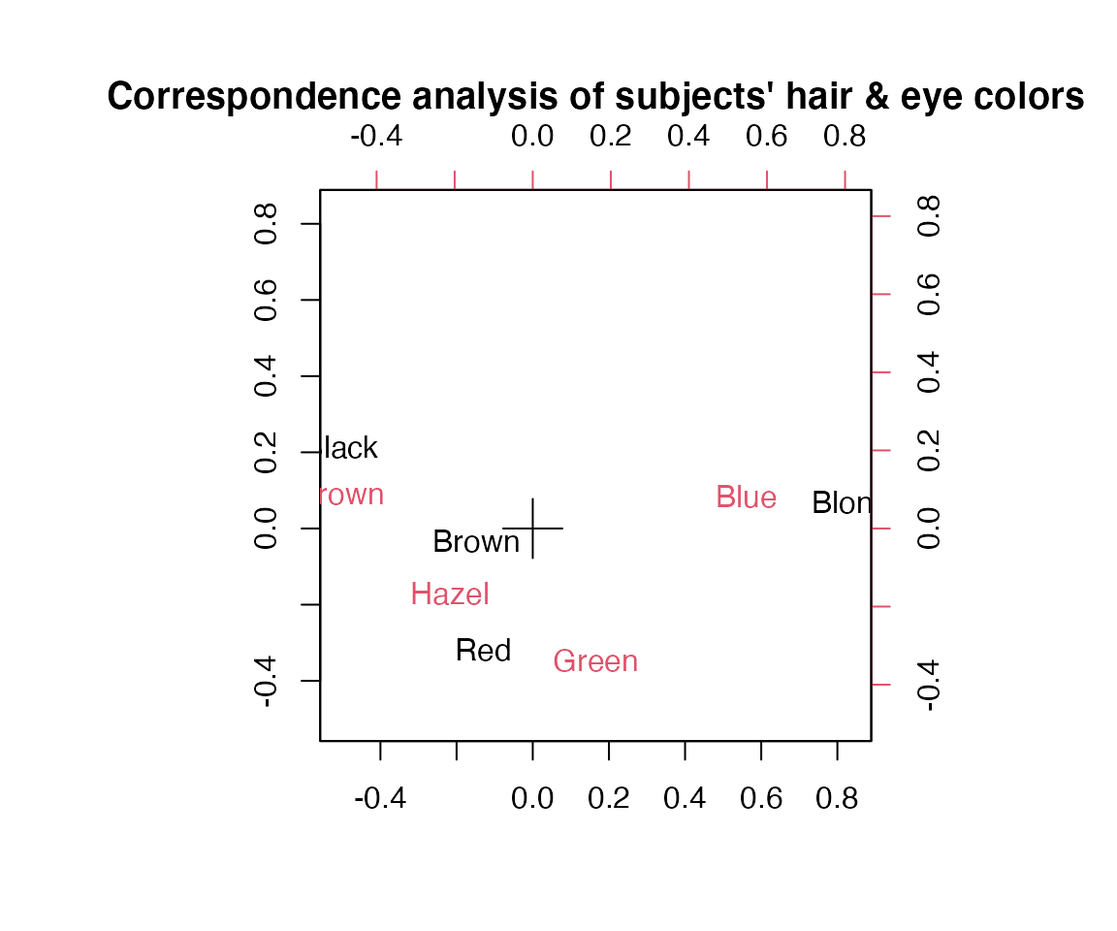
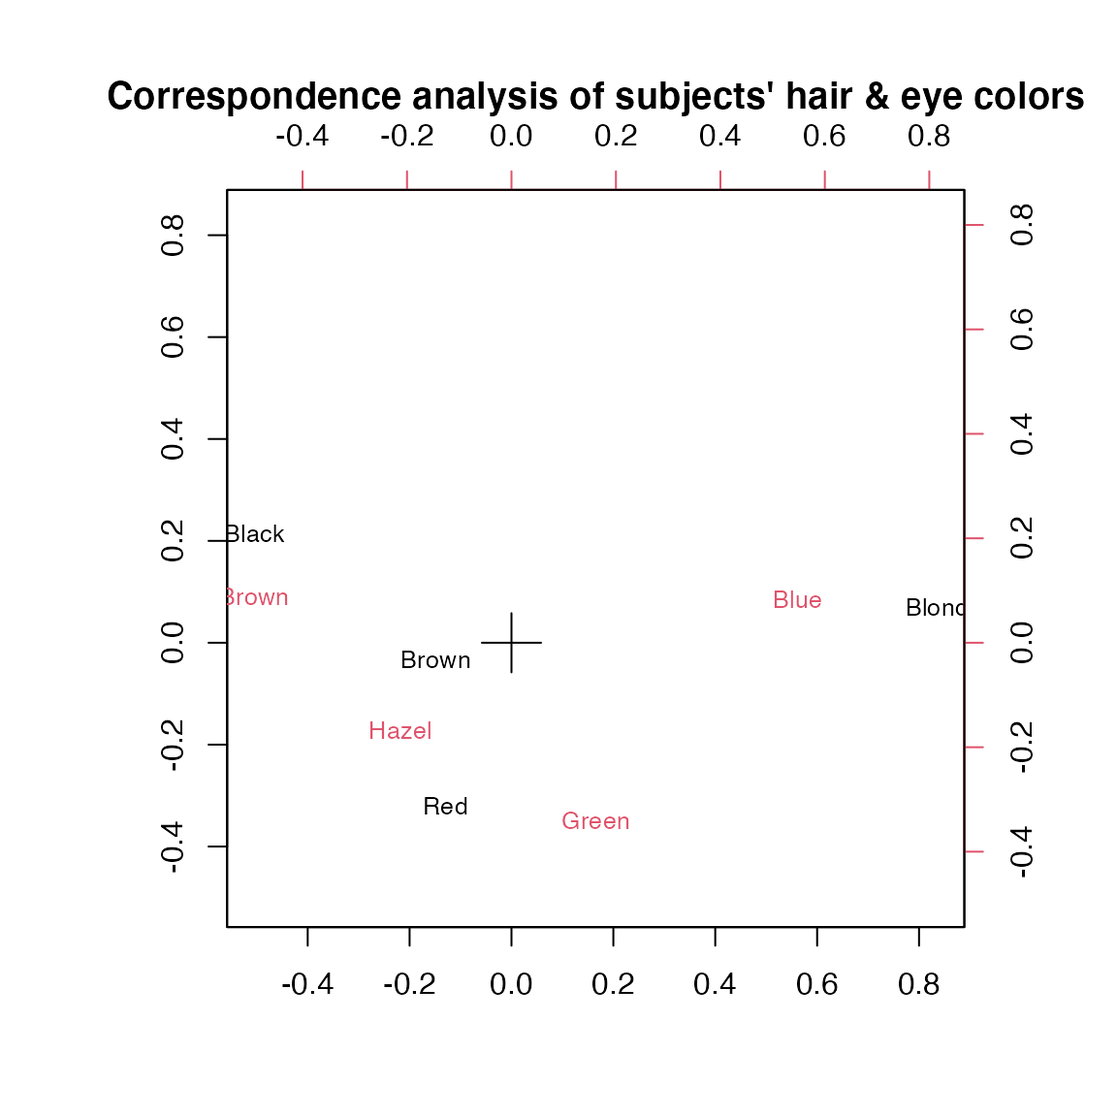
tweak base biplot

diff --git a/docs/articles/ordr.html b/docs/articles/ordr.html
@@ -272,7 +272,7 @@ for the ‘correspondence’ class, also provided by
 <strong>MASS</strong>:</p>
 <div class="sourceCode" id="cb5"><pre class="downlit sourceCode r">
 <code class="sourceCode R"><span><span class="fu"><a href="https://rdrr.io/r/stats/biplot.html" class="external-link">biplot</a></span><span class="op">(</span></span>
-<span>  <span class="va">haireye_ca</span>, type <span class="op">=</span> <span class="st">"symmetric"</span>,</span>
+<span>  <span class="va">haireye_ca</span>, type <span class="op">=</span> <span class="st">"symmetric"</span>, cex <span class="op">=</span> <span class="fl">.8</span>,</span>
 <span>  main <span class="op">=</span> <span class="st">"Correspondence analysis of subjects' hair &amp; eye colors"</span></span>
 <span><span class="op">)</span></span></code></pre></div>
 <p><img src="ordr_files/figure-html/unnamed-chunk-4-1.png" width="576" style="display: block; margin: auto;"></p>
@@ -542,67 +542,66 @@ plotting elements commonly used in biplots, the other being
 <span><span class="co">#&gt; </span></span>
 <span><span class="co">#&gt; <span style="color: #00BBBB; font-weight: bold;">─ Packages ───────────────────────────────────────────────────────────────────</span></span></span>
 <span><span class="co">#&gt;  <span style="color: #555555; font-style: italic;">package     </span> <span style="color: #555555; font-style: italic;">*</span> <span style="color: #555555; font-style: italic;">version</span> <span style="color: #555555; font-style: italic;">date (UTC)</span> <span style="color: #555555; font-style: italic;">lib</span> <span style="color: #555555; font-style: italic;">source</span></span></span>
-<span><span class="co">#&gt;  assertthat     0.2.1   <span style="color: #555555;">2019-03-21</span> <span style="color: #555555;">[2]</span> <span style="color: #555555;">CRAN (R 4.1.0)</span></span></span>
-<span><span class="co">#&gt;  bslib          0.4.0   <span style="color: #555555;">2022-07-16</span> <span style="color: #555555;">[2]</span> <span style="color: #555555;">CRAN (R 4.1.2)</span></span></span>
-<span><span class="co">#&gt;  cachem         1.0.6   <span style="color: #555555;">2021-08-19</span> <span style="color: #555555;">[2]</span> <span style="color: #555555;">CRAN (R 4.1.0)</span></span></span>
-<span><span class="co">#&gt;  cli            3.3.0   <span style="color: #555555;">2022-04-25</span> <span style="color: #555555;">[2]</span> <span style="color: #555555;">CRAN (R 4.1.2)</span></span></span>
-<span><span class="co">#&gt;  colorspace     2.0-3   <span style="color: #555555;">2022-02-21</span> <span style="color: #555555;">[2]</span> <span style="color: #555555;">CRAN (R 4.1.2)</span></span></span>
-<span><span class="co">#&gt;  DBI            1.1.3   <span style="color: #555555;">2022-06-18</span> <span style="color: #555555;">[2]</span> <span style="color: #555555;">CRAN (R 4.1.2)</span></span></span>
-<span><span class="co">#&gt;  desc           1.4.1   <span style="color: #555555;">2022-03-06</span> <span style="color: #555555;">[2]</span> <span style="color: #555555;">CRAN (R 4.1.2)</span></span></span>
-<span><span class="co">#&gt;  digest         0.6.29  <span style="color: #555555;">2021-12-01</span> <span style="color: #555555;">[2]</span> <span style="color: #555555;">CRAN (R 4.1.0)</span></span></span>
-<span><span class="co">#&gt;  dplyr          1.0.9   <span style="color: #555555;">2022-04-28</span> <span style="color: #555555;">[2]</span> <span style="color: #555555;">CRAN (R 4.1.2)</span></span></span>
-<span><span class="co">#&gt;  ellipsis       0.3.2   <span style="color: #555555;">2021-04-29</span> <span style="color: #555555;">[2]</span> <span style="color: #555555;">CRAN (R 4.1.0)</span></span></span>
-<span><span class="co">#&gt;  evaluate       0.15    <span style="color: #555555;">2022-02-18</span> <span style="color: #555555;">[2]</span> <span style="color: #555555;">CRAN (R 4.1.2)</span></span></span>
-<span><span class="co">#&gt;  fansi          1.0.3   <span style="color: #555555;">2022-03-24</span> <span style="color: #555555;">[2]</span> <span style="color: #555555;">CRAN (R 4.1.2)</span></span></span>
-<span><span class="co">#&gt;  farver         2.1.1   <span style="color: #555555;">2022-07-06</span> <span style="color: #555555;">[2]</span> <span style="color: #555555;">CRAN (R 4.1.2)</span></span></span>
-<span><span class="co">#&gt;  fastmap        1.1.0   <span style="color: #555555;">2021-01-25</span> <span style="color: #555555;">[2]</span> <span style="color: #555555;">CRAN (R 4.1.0)</span></span></span>
-<span><span class="co">#&gt;  fs             1.5.2   <span style="color: #555555;">2021-12-08</span> <span style="color: #555555;">[2]</span> <span style="color: #555555;">CRAN (R 4.1.0)</span></span></span>
-<span><span class="co">#&gt;  generics       0.1.3   <span style="color: #555555;">2022-07-05</span> <span style="color: #555555;">[2]</span> <span style="color: #555555;">CRAN (R 4.1.2)</span></span></span>
-<span><span class="co">#&gt;  ggplot2      * 3.3.6   <span style="color: #555555;">2022-05-03</span> <span style="color: #555555;">[2]</span> <span style="color: #555555;">CRAN (R 4.1.2)</span></span></span>
-<span><span class="co">#&gt;  ggrepel        0.9.1   <span style="color: #555555;">2021-01-15</span> <span style="color: #555555;">[2]</span> <span style="color: #555555;">CRAN (R 4.1.0)</span></span></span>
-<span><span class="co">#&gt;  glue           1.6.2   <span style="color: #555555;">2022-02-24</span> <span style="color: #555555;">[2]</span> <span style="color: #555555;">CRAN (R 4.1.2)</span></span></span>
-<span><span class="co">#&gt;  gtable         0.3.0   <span style="color: #555555;">2019-03-25</span> <span style="color: #555555;">[2]</span> <span style="color: #555555;">CRAN (R 4.1.0)</span></span></span>
-<span><span class="co">#&gt;  highr          0.9     <span style="color: #555555;">2021-04-16</span> <span style="color: #555555;">[2]</span> <span style="color: #555555;">CRAN (R 4.1.0)</span></span></span>
-<span><span class="co">#&gt;  htmltools      0.5.2   <span style="color: #555555;">2021-08-25</span> <span style="color: #555555;">[2]</span> <span style="color: #555555;">CRAN (R 4.1.0)</span></span></span>
-<span><span class="co">#&gt;  jquerylib      0.1.4   <span style="color: #555555;">2021-04-26</span> <span style="color: #555555;">[2]</span> <span style="color: #555555;">CRAN (R 4.1.0)</span></span></span>
-<span><span class="co">#&gt;  jsonlite       1.8.0   <span style="color: #555555;">2022-02-22</span> <span style="color: #555555;">[2]</span> <span style="color: #555555;">CRAN (R 4.1.2)</span></span></span>
-<span><span class="co">#&gt;  knitr          1.39    <span style="color: #555555;">2022-04-26</span> <span style="color: #555555;">[2]</span> <span style="color: #555555;">CRAN (R 4.1.2)</span></span></span>
-<span><span class="co">#&gt;  labeling       0.4.2   <span style="color: #555555;">2020-10-20</span> <span style="color: #555555;">[2]</span> <span style="color: #555555;">CRAN (R 4.1.0)</span></span></span>
-<span><span class="co">#&gt;  lifecycle      1.0.1   <span style="color: #555555;">2021-09-24</span> <span style="color: #555555;">[2]</span> <span style="color: #555555;">CRAN (R 4.1.0)</span></span></span>
-<span><span class="co">#&gt;  magrittr       2.0.3   <span style="color: #555555;">2022-03-30</span> <span style="color: #555555;">[2]</span> <span style="color: #555555;">CRAN (R 4.1.2)</span></span></span>
-<span><span class="co">#&gt;  MASS         * 7.3-55  <span style="color: #555555;">2022-01-16</span> <span style="color: #555555;">[2]</span> <span style="color: #555555;">CRAN (R 4.1.3)</span></span></span>
-<span><span class="co">#&gt;  memoise        2.0.1   <span style="color: #555555;">2021-11-26</span> <span style="color: #555555;">[2]</span> <span style="color: #555555;">CRAN (R 4.1.0)</span></span></span>
-<span><span class="co">#&gt;  munsell        0.5.0   <span style="color: #555555;">2018-06-12</span> <span style="color: #555555;">[2]</span> <span style="color: #555555;">CRAN (R 4.1.0)</span></span></span>
-<span><span class="co">#&gt;  ordr         * 0.0.2   <span style="color: #555555;">2022-07-22</span> <span style="color: #555555;">[1]</span> <span style="color: #BB00BB; font-weight: bold;">local</span></span></span>
-<span><span class="co">#&gt;  pillar         1.8.0   <span style="color: #555555;">2022-07-18</span> <span style="color: #555555;">[2]</span> <span style="color: #555555;">CRAN (R 4.1.3)</span></span></span>
-<span><span class="co">#&gt;  pkgconfig      2.0.3   <span style="color: #555555;">2019-09-22</span> <span style="color: #555555;">[2]</span> <span style="color: #555555;">CRAN (R 4.1.0)</span></span></span>
-<span><span class="co">#&gt;  pkgdown        2.0.6   <span style="color: #555555;">2022-07-16</span> <span style="color: #555555;">[2]</span> <span style="color: #555555;">CRAN (R 4.1.2)</span></span></span>
-<span><span class="co">#&gt;  purrr          0.3.4   <span style="color: #555555;">2020-04-17</span> <span style="color: #555555;">[2]</span> <span style="color: #555555;">CRAN (R 4.1.0)</span></span></span>
-<span><span class="co">#&gt;  R6             2.5.1   <span style="color: #555555;">2021-08-19</span> <span style="color: #555555;">[2]</span> <span style="color: #555555;">CRAN (R 4.1.0)</span></span></span>
-<span><span class="co">#&gt;  ragg           1.2.2   <span style="color: #555555;">2022-02-21</span> <span style="color: #555555;">[2]</span> <span style="color: #555555;">CRAN (R 4.1.2)</span></span></span>
-<span><span class="co">#&gt;  RColorBrewer   1.1-3   <span style="color: #555555;">2022-04-03</span> <span style="color: #555555;">[2]</span> <span style="color: #555555;">CRAN (R 4.1.2)</span></span></span>
-<span><span class="co">#&gt;  Rcpp           1.0.9   <span style="color: #555555;">2022-07-08</span> <span style="color: #555555;">[2]</span> <span style="color: #555555;">CRAN (R 4.1.2)</span></span></span>
-<span><span class="co">#&gt;  rlang          1.0.4   <span style="color: #555555;">2022-07-12</span> <span style="color: #555555;">[2]</span> <span style="color: #555555;">CRAN (R 4.1.2)</span></span></span>
-<span><span class="co">#&gt;  rmarkdown      2.14    <span style="color: #555555;">2022-04-25</span> <span style="color: #555555;">[2]</span> <span style="color: #555555;">CRAN (R 4.1.2)</span></span></span>
-<span><span class="co">#&gt;  rprojroot      2.0.3   <span style="color: #555555;">2022-04-02</span> <span style="color: #555555;">[2]</span> <span style="color: #555555;">CRAN (R 4.1.2)</span></span></span>
-<span><span class="co">#&gt;  rstudioapi     0.13    <span style="color: #555555;">2020-11-12</span> <span style="color: #555555;">[2]</span> <span style="color: #555555;">CRAN (R 4.1.0)</span></span></span>
-<span><span class="co">#&gt;  sass           0.4.2   <span style="color: #555555;">2022-07-16</span> <span style="color: #555555;">[2]</span> <span style="color: #555555;">CRAN (R 4.1.2)</span></span></span>
-<span><span class="co">#&gt;  scales         1.2.0   <span style="color: #555555;">2022-04-13</span> <span style="color: #555555;">[2]</span> <span style="color: #555555;">CRAN (R 4.1.2)</span></span></span>
-<span><span class="co">#&gt;  sessioninfo    1.2.2   <span style="color: #555555;">2021-12-06</span> <span style="color: #555555;">[2]</span> <span style="color: #555555;">CRAN (R 4.1.0)</span></span></span>
-<span><span class="co">#&gt;  stringi        1.7.8   <span style="color: #555555;">2022-07-11</span> <span style="color: #555555;">[2]</span> <span style="color: #555555;">CRAN (R 4.1.2)</span></span></span>
-<span><span class="co">#&gt;  stringr        1.4.0   <span style="color: #555555;">2019-02-10</span> <span style="color: #555555;">[2]</span> <span style="color: #555555;">CRAN (R 4.1.0)</span></span></span>
-<span><span class="co">#&gt;  systemfonts    1.0.4   <span style="color: #555555;">2022-02-11</span> <span style="color: #555555;">[2]</span> <span style="color: #555555;">CRAN (R 4.1.2)</span></span></span>
-<span><span class="co">#&gt;  textshaping    0.3.6   <span style="color: #555555;">2021-10-13</span> <span style="color: #555555;">[2]</span> <span style="color: #555555;">CRAN (R 4.1.0)</span></span></span>
-<span><span class="co">#&gt;  tibble         3.1.7   <span style="color: #555555;">2022-05-03</span> <span style="color: #555555;">[2]</span> <span style="color: #555555;">CRAN (R 4.1.2)</span></span></span>
-<span><span class="co">#&gt;  tidyselect     1.1.2   <span style="color: #555555;">2022-02-21</span> <span style="color: #555555;">[2]</span> <span style="color: #555555;">CRAN (R 4.1.2)</span></span></span>
-<span><span class="co">#&gt;  utf8           1.2.2   <span style="color: #555555;">2021-07-24</span> <span style="color: #555555;">[2]</span> <span style="color: #555555;">CRAN (R 4.1.0)</span></span></span>
-<span><span class="co">#&gt;  vctrs          0.4.1   <span style="color: #555555;">2022-04-13</span> <span style="color: #555555;">[2]</span> <span style="color: #555555;">CRAN (R 4.1.2)</span></span></span>
-<span><span class="co">#&gt;  withr          2.5.0   <span style="color: #555555;">2022-03-03</span> <span style="color: #555555;">[2]</span> <span style="color: #555555;">CRAN (R 4.1.2)</span></span></span>
-<span><span class="co">#&gt;  xfun           0.31    <span style="color: #555555;">2022-05-10</span> <span style="color: #555555;">[2]</span> <span style="color: #555555;">CRAN (R 4.1.2)</span></span></span>
-<span><span class="co">#&gt;  yaml           2.3.5   <span style="color: #555555;">2022-02-21</span> <span style="color: #555555;">[2]</span> <span style="color: #555555;">CRAN (R 4.1.2)</span></span></span>
+<span><span class="co">#&gt;  assertthat     0.2.1   <span style="color: #555555;">2019-03-21</span> <span style="color: #555555;">[1]</span> <span style="color: #555555;">CRAN (R 4.1.0)</span></span></span>
+<span><span class="co">#&gt;  bslib          0.4.0   <span style="color: #555555;">2022-07-16</span> <span style="color: #555555;">[1]</span> <span style="color: #555555;">CRAN (R 4.1.2)</span></span></span>
+<span><span class="co">#&gt;  cachem         1.0.6   <span style="color: #555555;">2021-08-19</span> <span style="color: #555555;">[1]</span> <span style="color: #555555;">CRAN (R 4.1.0)</span></span></span>
+<span><span class="co">#&gt;  cli            3.3.0   <span style="color: #555555;">2022-04-25</span> <span style="color: #555555;">[1]</span> <span style="color: #555555;">CRAN (R 4.1.2)</span></span></span>
+<span><span class="co">#&gt;  colorspace     2.0-3   <span style="color: #555555;">2022-02-21</span> <span style="color: #555555;">[1]</span> <span style="color: #555555;">CRAN (R 4.1.2)</span></span></span>
+<span><span class="co">#&gt;  DBI            1.1.3   <span style="color: #555555;">2022-06-18</span> <span style="color: #555555;">[1]</span> <span style="color: #555555;">CRAN (R 4.1.2)</span></span></span>
+<span><span class="co">#&gt;  desc           1.4.1   <span style="color: #555555;">2022-03-06</span> <span style="color: #555555;">[1]</span> <span style="color: #555555;">CRAN (R 4.1.2)</span></span></span>
+<span><span class="co">#&gt;  digest         0.6.29  <span style="color: #555555;">2021-12-01</span> <span style="color: #555555;">[1]</span> <span style="color: #555555;">CRAN (R 4.1.0)</span></span></span>
+<span><span class="co">#&gt;  dplyr          1.0.9   <span style="color: #555555;">2022-04-28</span> <span style="color: #555555;">[1]</span> <span style="color: #555555;">CRAN (R 4.1.2)</span></span></span>
+<span><span class="co">#&gt;  ellipsis       0.3.2   <span style="color: #555555;">2021-04-29</span> <span style="color: #555555;">[1]</span> <span style="color: #555555;">CRAN (R 4.1.0)</span></span></span>
+<span><span class="co">#&gt;  evaluate       0.15    <span style="color: #555555;">2022-02-18</span> <span style="color: #555555;">[1]</span> <span style="color: #555555;">CRAN (R 4.1.2)</span></span></span>
+<span><span class="co">#&gt;  fansi          1.0.3   <span style="color: #555555;">2022-03-24</span> <span style="color: #555555;">[1]</span> <span style="color: #555555;">CRAN (R 4.1.2)</span></span></span>
+<span><span class="co">#&gt;  farver         2.1.1   <span style="color: #555555;">2022-07-06</span> <span style="color: #555555;">[1]</span> <span style="color: #555555;">CRAN (R 4.1.2)</span></span></span>
+<span><span class="co">#&gt;  fastmap        1.1.0   <span style="color: #555555;">2021-01-25</span> <span style="color: #555555;">[1]</span> <span style="color: #555555;">CRAN (R 4.1.0)</span></span></span>
+<span><span class="co">#&gt;  fs             1.5.2   <span style="color: #555555;">2021-12-08</span> <span style="color: #555555;">[1]</span> <span style="color: #555555;">CRAN (R 4.1.0)</span></span></span>
+<span><span class="co">#&gt;  generics       0.1.3   <span style="color: #555555;">2022-07-05</span> <span style="color: #555555;">[1]</span> <span style="color: #555555;">CRAN (R 4.1.2)</span></span></span>
+<span><span class="co">#&gt;  ggplot2      * 3.3.6   <span style="color: #555555;">2022-05-03</span> <span style="color: #555555;">[1]</span> <span style="color: #555555;">CRAN (R 4.1.2)</span></span></span>
+<span><span class="co">#&gt;  ggrepel        0.9.1   <span style="color: #555555;">2021-01-15</span> <span style="color: #555555;">[1]</span> <span style="color: #555555;">CRAN (R 4.1.0)</span></span></span>
+<span><span class="co">#&gt;  glue           1.6.2   <span style="color: #555555;">2022-02-24</span> <span style="color: #555555;">[1]</span> <span style="color: #555555;">CRAN (R 4.1.2)</span></span></span>
+<span><span class="co">#&gt;  gtable         0.3.0   <span style="color: #555555;">2019-03-25</span> <span style="color: #555555;">[1]</span> <span style="color: #555555;">CRAN (R 4.1.0)</span></span></span>
+<span><span class="co">#&gt;  highr          0.9     <span style="color: #555555;">2021-04-16</span> <span style="color: #555555;">[1]</span> <span style="color: #555555;">CRAN (R 4.1.0)</span></span></span>
+<span><span class="co">#&gt;  htmltools      0.5.2   <span style="color: #555555;">2021-08-25</span> <span style="color: #555555;">[1]</span> <span style="color: #555555;">CRAN (R 4.1.0)</span></span></span>
+<span><span class="co">#&gt;  jquerylib      0.1.4   <span style="color: #555555;">2021-04-26</span> <span style="color: #555555;">[1]</span> <span style="color: #555555;">CRAN (R 4.1.0)</span></span></span>
+<span><span class="co">#&gt;  jsonlite       1.8.0   <span style="color: #555555;">2022-02-22</span> <span style="color: #555555;">[1]</span> <span style="color: #555555;">CRAN (R 4.1.2)</span></span></span>
+<span><span class="co">#&gt;  knitr          1.39    <span style="color: #555555;">2022-04-26</span> <span style="color: #555555;">[1]</span> <span style="color: #555555;">CRAN (R 4.1.2)</span></span></span>
+<span><span class="co">#&gt;  labeling       0.4.2   <span style="color: #555555;">2020-10-20</span> <span style="color: #555555;">[1]</span> <span style="color: #555555;">CRAN (R 4.1.0)</span></span></span>
+<span><span class="co">#&gt;  lifecycle      1.0.1   <span style="color: #555555;">2021-09-24</span> <span style="color: #555555;">[1]</span> <span style="color: #555555;">CRAN (R 4.1.0)</span></span></span>
+<span><span class="co">#&gt;  magrittr       2.0.3   <span style="color: #555555;">2022-03-30</span> <span style="color: #555555;">[1]</span> <span style="color: #555555;">CRAN (R 4.1.2)</span></span></span>
+<span><span class="co">#&gt;  MASS         * 7.3-55  <span style="color: #555555;">2022-01-16</span> <span style="color: #555555;">[1]</span> <span style="color: #555555;">CRAN (R 4.1.3)</span></span></span>
+<span><span class="co">#&gt;  memoise        2.0.1   <span style="color: #555555;">2021-11-26</span> <span style="color: #555555;">[1]</span> <span style="color: #555555;">CRAN (R 4.1.0)</span></span></span>
+<span><span class="co">#&gt;  munsell        0.5.0   <span style="color: #555555;">2018-06-12</span> <span style="color: #555555;">[1]</span> <span style="color: #555555;">CRAN (R 4.1.0)</span></span></span>
+<span><span class="co">#&gt;  ordr         * 0.0.2   <span style="color: #555555;">2022-07-22</span> <span style="color: #555555;">[1]</span> <span style="color: #BB00BB; font-weight: bold;">Github (corybrunson/ordr@5d4c184)</span></span></span>
+<span><span class="co">#&gt;  pillar         1.8.0   <span style="color: #555555;">2022-07-18</span> <span style="color: #555555;">[1]</span> <span style="color: #555555;">CRAN (R 4.1.3)</span></span></span>
+<span><span class="co">#&gt;  pkgconfig      2.0.3   <span style="color: #555555;">2019-09-22</span> <span style="color: #555555;">[1]</span> <span style="color: #555555;">CRAN (R 4.1.0)</span></span></span>
+<span><span class="co">#&gt;  pkgdown        2.0.6   <span style="color: #555555;">2022-07-16</span> <span style="color: #555555;">[1]</span> <span style="color: #555555;">CRAN (R 4.1.2)</span></span></span>
+<span><span class="co">#&gt;  purrr          0.3.4   <span style="color: #555555;">2020-04-17</span> <span style="color: #555555;">[1]</span> <span style="color: #555555;">CRAN (R 4.1.0)</span></span></span>
+<span><span class="co">#&gt;  R6             2.5.1   <span style="color: #555555;">2021-08-19</span> <span style="color: #555555;">[1]</span> <span style="color: #555555;">CRAN (R 4.1.0)</span></span></span>
+<span><span class="co">#&gt;  ragg           1.2.2   <span style="color: #555555;">2022-02-21</span> <span style="color: #555555;">[1]</span> <span style="color: #555555;">CRAN (R 4.1.2)</span></span></span>
+<span><span class="co">#&gt;  RColorBrewer   1.1-3   <span style="color: #555555;">2022-04-03</span> <span style="color: #555555;">[1]</span> <span style="color: #555555;">CRAN (R 4.1.2)</span></span></span>
+<span><span class="co">#&gt;  Rcpp           1.0.9   <span style="color: #555555;">2022-07-08</span> <span style="color: #555555;">[1]</span> <span style="color: #555555;">CRAN (R 4.1.2)</span></span></span>
+<span><span class="co">#&gt;  rlang          1.0.4   <span style="color: #555555;">2022-07-12</span> <span style="color: #555555;">[1]</span> <span style="color: #555555;">CRAN (R 4.1.2)</span></span></span>
+<span><span class="co">#&gt;  rmarkdown      2.14    <span style="color: #555555;">2022-04-25</span> <span style="color: #555555;">[1]</span> <span style="color: #555555;">CRAN (R 4.1.2)</span></span></span>
+<span><span class="co">#&gt;  rprojroot      2.0.3   <span style="color: #555555;">2022-04-02</span> <span style="color: #555555;">[1]</span> <span style="color: #555555;">CRAN (R 4.1.2)</span></span></span>
+<span><span class="co">#&gt;  rstudioapi     0.13    <span style="color: #555555;">2020-11-12</span> <span style="color: #555555;">[1]</span> <span style="color: #555555;">CRAN (R 4.1.0)</span></span></span>
+<span><span class="co">#&gt;  sass           0.4.2   <span style="color: #555555;">2022-07-16</span> <span style="color: #555555;">[1]</span> <span style="color: #555555;">CRAN (R 4.1.2)</span></span></span>
+<span><span class="co">#&gt;  scales         1.2.0   <span style="color: #555555;">2022-04-13</span> <span style="color: #555555;">[1]</span> <span style="color: #555555;">CRAN (R 4.1.2)</span></span></span>
+<span><span class="co">#&gt;  sessioninfo    1.2.2   <span style="color: #555555;">2021-12-06</span> <span style="color: #555555;">[1]</span> <span style="color: #555555;">CRAN (R 4.1.0)</span></span></span>
+<span><span class="co">#&gt;  stringi        1.7.8   <span style="color: #555555;">2022-07-11</span> <span style="color: #555555;">[1]</span> <span style="color: #555555;">CRAN (R 4.1.2)</span></span></span>
+<span><span class="co">#&gt;  stringr        1.4.0   <span style="color: #555555;">2019-02-10</span> <span style="color: #555555;">[1]</span> <span style="color: #555555;">CRAN (R 4.1.0)</span></span></span>
+<span><span class="co">#&gt;  systemfonts    1.0.4   <span style="color: #555555;">2022-02-11</span> <span style="color: #555555;">[1]</span> <span style="color: #555555;">CRAN (R 4.1.2)</span></span></span>
+<span><span class="co">#&gt;  textshaping    0.3.6   <span style="color: #555555;">2021-10-13</span> <span style="color: #555555;">[1]</span> <span style="color: #555555;">CRAN (R 4.1.0)</span></span></span>
+<span><span class="co">#&gt;  tibble         3.1.7   <span style="color: #555555;">2022-05-03</span> <span style="color: #555555;">[1]</span> <span style="color: #555555;">CRAN (R 4.1.2)</span></span></span>
+<span><span class="co">#&gt;  tidyselect     1.1.2   <span style="color: #555555;">2022-02-21</span> <span style="color: #555555;">[1]</span> <span style="color: #555555;">CRAN (R 4.1.2)</span></span></span>
+<span><span class="co">#&gt;  utf8           1.2.2   <span style="color: #555555;">2021-07-24</span> <span style="color: #555555;">[1]</span> <span style="color: #555555;">CRAN (R 4.1.0)</span></span></span>
+<span><span class="co">#&gt;  vctrs          0.4.1   <span style="color: #555555;">2022-04-13</span> <span style="color: #555555;">[1]</span> <span style="color: #555555;">CRAN (R 4.1.2)</span></span></span>
+<span><span class="co">#&gt;  withr          2.5.0   <span style="color: #555555;">2022-03-03</span> <span style="color: #555555;">[1]</span> <span style="color: #555555;">CRAN (R 4.1.2)</span></span></span>
+<span><span class="co">#&gt;  xfun           0.31    <span style="color: #555555;">2022-05-10</span> <span style="color: #555555;">[1]</span> <span style="color: #555555;">CRAN (R 4.1.2)</span></span></span>
+<span><span class="co">#&gt;  yaml           2.3.5   <span style="color: #555555;">2022-02-21</span> <span style="color: #555555;">[1]</span> <span style="color: #555555;">CRAN (R 4.1.2)</span></span></span>
 <span><span class="co">#&gt; </span></span>
-<span><span class="co">#&gt; <span style="color: #555555;"> [1] /private/var/folders/k6/l4mq9ctj3219429xnvqpdbxm8tckkx/T/RtmpLkY0iF/temp_libpath1e3a373a2fa7</span></span></span>
-<span><span class="co">#&gt; <span style="color: #555555;"> [2] /Library/Frameworks/R.framework/Versions/4.1/Resources/library</span></span></span>
+<span><span class="co">#&gt; <span style="color: #555555;"> [1] /Library/Frameworks/R.framework/Versions/4.1/Resources/library</span></span></span>
 <span><span class="co">#&gt; </span></span>
 <span><span class="co">#&gt; <span style="color: #00BBBB; font-weight: bold;">──────────────────────────────────────────────────────────────────────────────</span></span></span></code></pre></div>
 </div>
